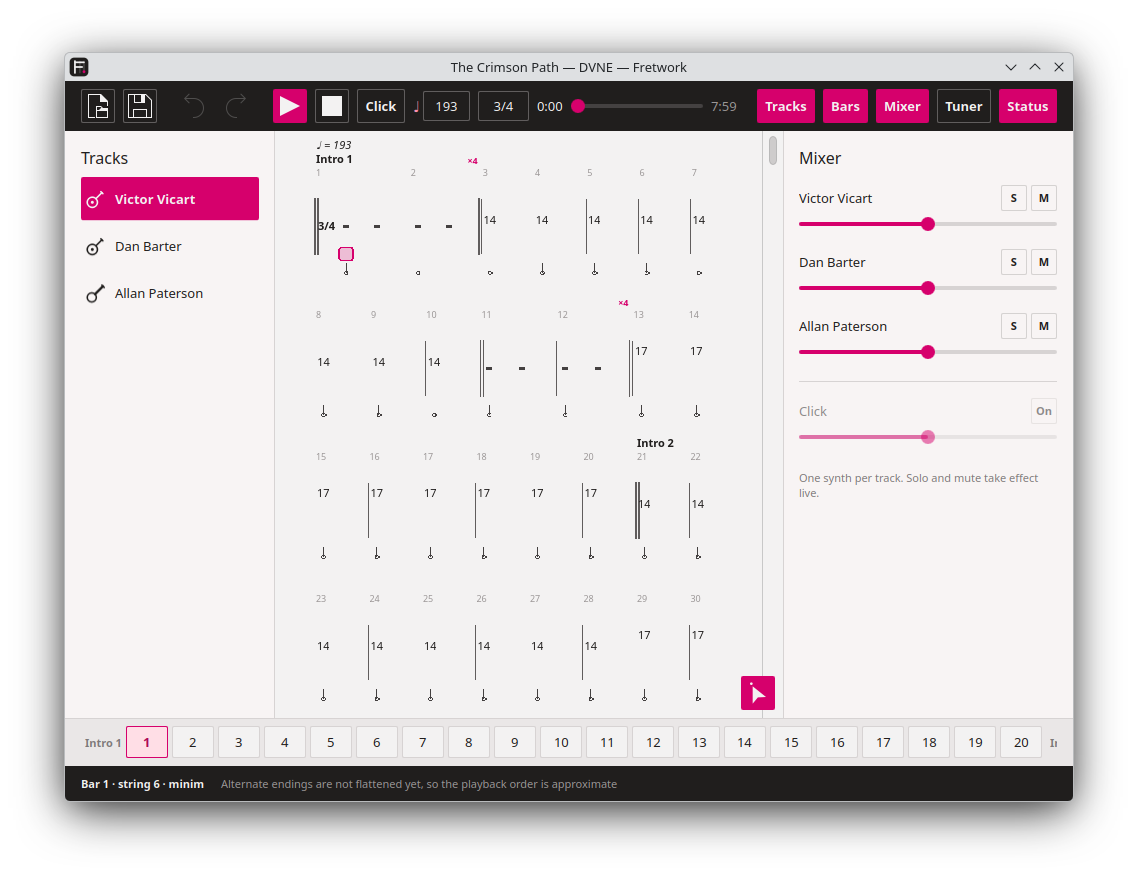
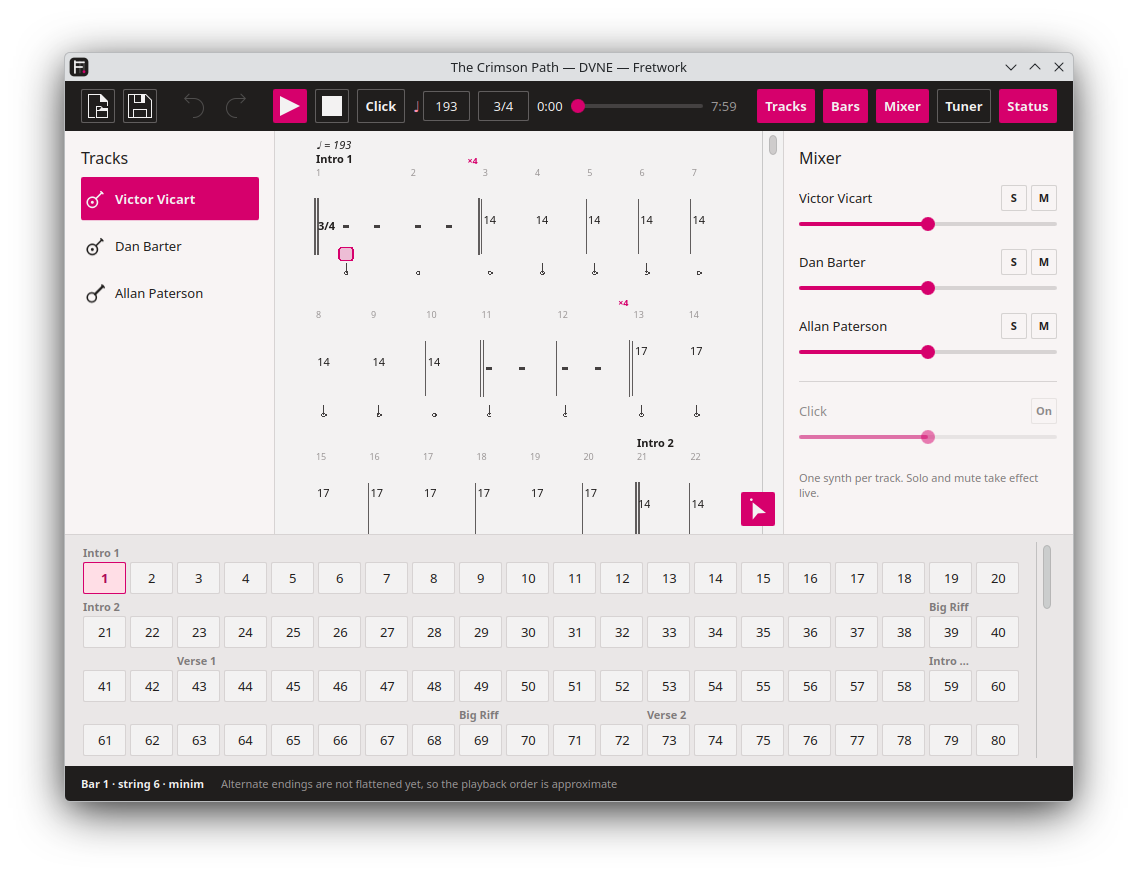
Lay the bars out as a map, not a ruler
The strip along the bottom was a single row that ran off the side of the
window, which meant finding bar 96 was scrolling for bar 96 -- the thing it
was built to stop anybody having to do. It is a grid now: as many columns as
the window is wide enough for, in as many rows as that takes, recounted
whenever the window changes size.

The columns are the width the window divides into rather than a fixed size.
A grid with a ragged right edge reads as a mistake, and the point of a grid is
that a bar is somewhere a person can aim at rather than somewhere they have to
find.

Whole rows only, and never more than the panel can show: a row cut through the
middle by the bottom edge looks like a rendering fault instead of like there
being more below. A gutter is kept on the right whether or not a scroll bar is
in it, because working out whether one is needed needs the number of rows,
which needs the number of columns, which needs the width the scroll bar is
taking -- and a bar drawn over the last column of every row is worse than a
gutter that is sometimes empty. The height is worked out from the bar count
and the column count rather than read back off the view, which is the same
circle in the other direction and the one Qt actually noticed.

The two panels along the bottom share a budget rather than each taking a
share of the window. A third of the screen for the bars and a band for the
tuner left the music they are both about as a minority of the window, which
[…]

diff --git a/src/gui/Main.qml b/src/gui/Main.qml
@@ -1033,6 +1033,8 @@ Kirigami.ApplicationWindow {
          * again when it is finished with.
          */
         Rectangle {
+            id: tunerPanel
+
             Layout.fillWidth: true
             Layout.preferredHeight: Kirigami.Units.gridUnit * 6
             visible: panels.tuner
@@ -1262,16 +1264,80 @@ Kirigami.ApplicationWindow {
         }
 
         /**
-         * Every bar of the piece, in a row.
+         * Every bar of the piece, in a grid.
          *
          * A score is read a line at a time and navigated a bar at a time, and
          * until now the only way to reach bar 96 was to scroll to it. The bar
          * being played is lit in the same colour the page lights it, so this
          * says where the music is as well as where you are.
+         *
+         * It wraps. A row of two hundred boxes runs off the side of any window
+         * ever made and turns finding a bar back into scrolling for it, so the
+         * strip lays them out in as many columns as the window is wide enough
+         * for and as many rows as that takes. The columns are the width the
+         * window divides into rather than a fixed size, because a grid with a
+         * ragged right edge reads as a mistake, and because the point of a
+         * grid is that bar 96 is somewhere a person can aim at.
+         *
+         * It grows to fit the score and stops at a third of the window: a
+         * hundred-and-seventy-six-bar piece would otherwise push the music it
+         * is a map of off the screen entirely.
          */
         Rectangle {
+            id: barPanel
+
+            readonly property int cushion: Kirigami.Units.largeSpacing * 2
+            readonly property int inset: Kirigami.Units.largeSpacing * 2
+
+            /** The narrowest a bar box may be before a column is dropped. */
+            readonly property int narrowest: Ink.barBoxWidth + Kirigami.Units.smallSpacing
+
+            /**
+             * The width the boxes get, which is not the width of the panel.
+             *
+             * A gutter is kept on the right whether or not there is a scroll
+             * bar in it. Working out whether one is needed would mean knowing
+             * how many rows there are, which needs the number of columns,
+             * which needs this width -- a circle -- and a bar drawn over the
+             * last column of every row is worse than a gutter that is
+             * sometimes empty.
+             */
+            readonly property int usable:
+                Math.max(narrowest, width - inset * 2 - Kirigami.Units.gridUnit)
+            readonly property int columns: Math.max(1, Math.floor(usable / narrowest))
+            readonly property int sectionLine:
+                session.hasSections ? Kirigami.Units.gridUnit : 0
+            readonly property int cellHeight:
+                Ink.barBoxHeight + Kirigami.Units.smallSpacing + sectionLine
+
+            // Worked out from the count rather than read off the view: asking
+            // the grid how tall its contents are, while the grid is as tall as
+            // this, is a question that answers itself in a circle.
+            readonly property int rows: Math.max(1, Math.ceil(session.barCount / columns))
+            /**
+             * How much of the window the map may take.
+             *
+             * The two panels along the bottom share a budget rather than each
+             * taking a share of the window: a third for the bars and a band
+             * for the tuner leaves the music they are both about as a minority
+             * of the screen, which is the wrong way round. Whatever the tuner
+             * is using comes off this, so opening it shortens the grid instead
+             * of squeezing the page.
+             */
+            readonly property real ceiling: Math.max(
+                cellHeight,
+                root.height * 0.3
+                    - (tunerPanel.visible ? tunerPanel.Layout.preferredHeight : 0))
+
+            // Whole rows only. A row cut through the middle by the bottom of
+            // the panel looks like a rendering fault rather than like there
+            // being more to scroll to.
+            readonly property int shownRows:
+                Math.max(1, Math.min(rows, Math.floor(ceiling / cellHeight)))
+
             Layout.fillWidth: true
-            Layout.preferredHeight: Ink.barBoxHeight + Kirigami.Units.largeSpacing * 2
+            Layout.preferredHeight: barPanel.shownRows * barPanel.cellHeight
+                                    + barPanel.cushion
             visible: panels.bars && session.hasScore
             color: Ink.panelDeep
 
@@ -1282,21 +1348,33 @@ Kirigami.ApplicationWindow {
                 color: Ink.rule
             }
 
-            ListView {
-                id: barStrip
+            GridView {
+                id: barGrid
 
                 property int lit: -1
 
+                readonly property int sectionLine: barPanel.sectionLine
+
                 anchors.fill: parent
-                anchors.leftMargin: Kirigami.Units.largeSpacing * 2
-                anchors.rightMargin: Kirigami.Units.largeSpacing * 2
-                orientation: ListView.Horizontal
-                spacing: Kirigami.Units.smallSpacing
+                anchors.margins: barPanel.cushion / 2
+                anchors.leftMargin: barPanel.inset
+                anchors.rightMargin: barPanel.inset
+
+                // Whole pixels, or the last column in every row is a fraction
+                // narrower than the rest and the grid looks bent.
+                cellWidth: Math.floor(barPanel.usable / barPanel.columns)
+                cellHeight: barPanel.cellHeight
+
                 clip: true
                 boundsBehavior: Flickable.StopAtBounds
                 model: session.barCount
 
-                delegate: RowLayout {
+                QQC2.ScrollBar.vertical: QQC2.ScrollBar {
+                    policy: barGrid.contentHeight > barGrid.height
+                        ? QQC2.ScrollBar.AsNeeded : QQC2.ScrollBar.AlwaysOff
+                }
+
+                delegate: Item {
                     id: barCell
                     required property int index
 
@@ -1304,53 +1382,64 @@ Kirigami.ApplicationWindow {
                     property bool playing: index === session.currentBar
                     property bool atCaret: index === session.caretBar
 
-                    height: barStrip.height
-                    spacing: Kirigami.Units.smallSpacing
+                    width: barGrid.cellWidth
+                    height: barGrid.cellHeight
 
-                    // Where the score names a section, its name goes in front
-                    // of the bar it starts: a strip of numbers with no words in
-                    // it is a ruler rather than a map.
-                    QQC2.Label {
-                        Layout.leftMargin: Kirigami.Units.smallSpacing
-                        visible: barCell.section.length > 0
-                        text: barCell.section
-                        color: Ink.quiet
-                        font.pointSize: Kirigami.Theme.smallFont.pointSize
-                        font.weight: Font.DemiBold
-                        verticalAlignment: Text.AlignVCenter
-                    }
+                    ColumnLayout {
+                        anchors.fill: parent
+                        anchors.margins: Kirigami.Units.smallSpacing / 2
+                        spacing: 0
 
-                    Rectangle {
-                        Layout.preferredWidth: Ink.barBoxWidth
-                        Layout.preferredHeight: Ink.barBoxHeight
-                        Layout.alignment: Qt.AlignVCenter
-                        radius: Ink.radius
-                        color: barCell.playing ? Ink.accent
-                             : (barCell.atCaret ? Ink.accentTint
-                             : (barMouse.containsMouse ? Ink.rule : Ink.paper))
-                        border.width: 1
-                        border.color: barCell.atCaret && !barCell.playing ? Ink.accent : Ink.rule
-
+                        // Where the score names a section, its name sits over
+                        // the bar it starts: a strip of numbers with no words
+                        // in it is a ruler rather than a map. Above rather
+                        // than beside it now, because a name of its own width
+                        // in front of a box would put every column after it
+                        // out of line.
                         QQC2.Label {
-                            anchors.centerIn: parent
-                            text: barCell.index + 1
-                            color: barCell.playing ? Ink.paper
-                                 : (barCell.atCaret ? Ink.accentDeep : Ink.ink)
-                            font.weight: barCell.playing || barCell.atCaret
-                                ? Font.DemiBold : Font.Normal
-                            font.features: ({ "tnum": 1 })
+                            Layout.fillWidth: true
+                            Layout.preferredHeight: barGrid.sectionLine
+                            visible: barGrid.sectionLine > 0
+                            text: barCell.section
+                            elide: Text.ElideRight
+                            color: Ink.quiet
+                            verticalAlignment: Text.AlignVCenter
+                            font.pointSize: Kirigami.Theme.smallFont.pointSize
+                            font.weight: Font.DemiBold
                         }
 
-                        MouseArea {
-                            id: barMouse
-                            anchors.fill: parent
-                            hoverEnabled: true
-                            cursorShape: Qt.PointingHandCursor
-                            onClicked: {
-                                session.goToBar(barCell.index)
-                                // Jumping to a bar is usually the first half of
-                                // writing something in it.
-                                view.forceActiveFocus()
+                        Rectangle {
+                            Layout.fillWidth: true
+                            Layout.fillHeight: true
+                            radius: Ink.radius
+                            color: barCell.playing ? Ink.accent
+                                 : (barCell.atCaret ? Ink.accentTint
+                                 : (barMouse.containsMouse ? Ink.rule : Ink.paper))
+                            border.width: 1
+                            border.color: barCell.atCaret && !barCell.playing
+                                ? Ink.accent : Ink.rule
+
+                            QQC2.Label {
+                                anchors.centerIn: parent
+                                text: barCell.index + 1
+                                color: barCell.playing ? Ink.paper
+                                     : (barCell.atCaret ? Ink.accentDeep : Ink.ink)
+                                font.weight: barCell.playing || barCell.atCaret
+                                    ? Font.DemiBold : Font.Normal
+                                font.features: ({ "tnum": 1 })
+                            }
+
+                            MouseArea {
+                                id: barMouse
+                                anchors.fill: parent
+                                hoverEnabled: true
+                                cursorShape: Qt.PointingHandCursor
+                                onClicked: {
+                                    session.goToBar(barCell.index)
+                                    // Jumping to a bar is usually the first
+                                    // half of writing something in it.
+                                    view.forceActiveFocus()
+                                }
                             }
                         }
                     }
@@ -1363,17 +1452,17 @@ Kirigami.ApplicationWindow {
                     target: session
 
                     function onPositionChanged() {
-                        if (session.playing && session.currentBar !== barStrip.lit) {
-                            barStrip.lit = session.currentBar
-                            if (barStrip.lit >= 0) {
-                                barStrip.positionViewAtIndex(barStrip.lit, ListView.Contain)
+                        if (session.playing && session.currentBar !== barGrid.lit) {
+                            barGrid.lit = session.currentBar
+                            if (barGrid.lit >= 0) {
+                                barGrid.positionViewAtIndex(barGrid.lit, GridView.Contain)
                             }
                         }
                     }
 
                     function onCursorMoved() {
                         if (!session.playing && session.caretBar >= 0) {
-                            barStrip.positionViewAtIndex(session.caretBar, ListView.Contain)
+                            barGrid.positionViewAtIndex(session.caretBar, GridView.Contain)
                         }
                     }
                 }

diff --git a/src/gui/session.h b/src/gui/session.h
@@ -86,6 +86,16 @@ class Session : public QObject
 
     /** How many bars the score has, and which one the caret is in. */
     Q_PROPERTY(int barCount READ barCount NOTIFY scoreChanged)
+
+    /**
+     * Whether the score names any of its sections at all.
+     *
+     * Asked once so that the bar strip can decide whether to keep a line free
+     * for section names in every cell of its grid. Most scores name a few and
+     * some name none, and reserving the room unconditionally would cost a row
+     * of pixels per row of bars to hold nothing.
+     */
+    Q_PROPERTY(bool hasSections READ hasSections NOTIFY scoreChanged)
     Q_PROPERTY(int caretBar READ caretBar NOTIFY cursorMoved)
 
     Q_PROPERTY(bool canUndo READ canUndo NOTIFY historyChanged)
@@ -127,6 +137,7 @@ public:
     QStringList trackIcons() const;
     int trackCount() const;
     int barCount() const;
+    bool hasSections() const;
     int caretBar() const;
     int currentTrack() const;
     void setCurrentTrack(int track);

diff --git a/src/gui/session.cpp b/src/gui/session.cpp
@@ -255,6 +255,16 @@ QVariantList Session::stringPitches(int track) const
     return pitches;
 }
 
+bool Session::hasSections() const
+{
+    for (const MasterBar &bar : m_editor.score().masterBars) {
+        if (!bar.section.isEmpty()) {
+            return true;
+        }
+    }
+    return false;
+}
+
 int Session::trackCount() const
 {
     return int(m_editor.score().tracks.size());

diff --git a/README.md b/README.md
@@ -35,9 +35,16 @@ played lit up as it goes.
 
 Every track is a row down the left with a drawing of what it is — a guitar, a
 bass, a drum kit — opposite the mixer, which says what it sounds like. Every
-bar of the piece is a box along the bottom, with the section names in among the
-numbers: click one and the caret and the playhead both go there, and while it
-plays the strip follows the music.
+bar of the piece is a box in a grid along the bottom, with the section names
+over the bars they start: click one and the caret and the playhead both go
+there, and while it plays the grid follows the music.
+
+The grid wraps. A row of two hundred boxes runs off the side of any window ever
+made and turns finding a bar back into scrolling for it, so the bars are laid
+out in as many columns as the window is wide enough for, in whole rows, growing
+to fit the score and stopping at a third of the window — a hundred and
+seventy-six bars would otherwise push the music it is a map of off the screen.
+Resize the window and the columns are recounted.
 
 Every track has a synthesiser of its own, so the **S** and **M** buttons take
 effect while it plays — no re-render, no bounce. The view follows the playhead
